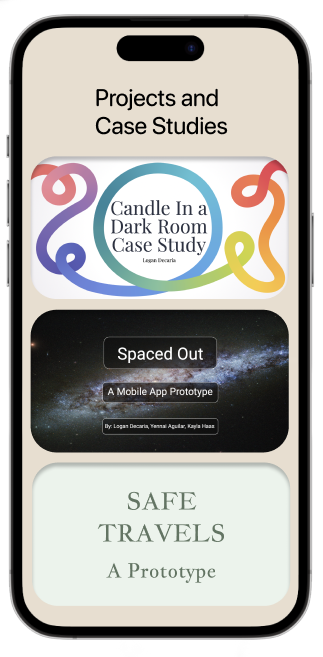
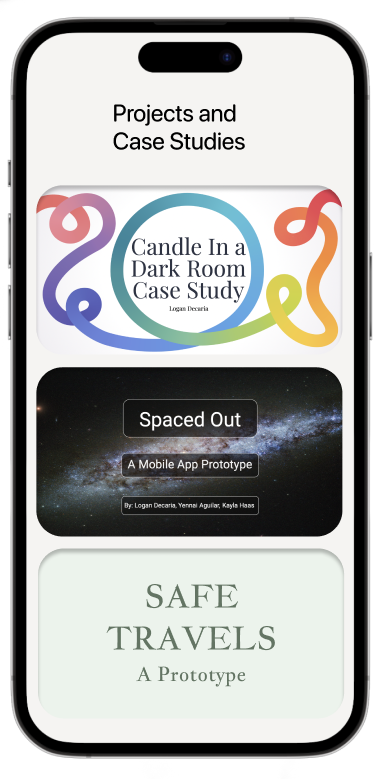
Layout changes

diff --git a/index.html b/index.html
@@ -45,7 +45,9 @@
       </nav>   
         <div class="mainContent"> 
         <div class="smallp">
-            Hi there, i'm Logan! I am a UX/UI Researcher
+          <div  >
+      <img id="personalPhoto" src="homepageimages/personalphoto.png">
+    </div>  Hi there, i'm Logan! I am a UX/UI Researcher
 and designer with a knack for prototyping and
 styling.
        <div class="largep">
@@ -53,7 +55,8 @@ styling.
           </div>
         
     </div>
-      <div class="iphonecase">
+    
+    <div class="iphonecase">
         <img src="homepageimages/iPhone14OnLanding/finishediPhone.png">
           </div>  
         </div>

diff --git a/style.css b/style.css
@@ -1,5 +1,5 @@
 .body{
-    background-image: linear-gradient( to left, #fcfaf2, #8b8982);
+    background-image: linear-gradient( to left, #8b8982, #fffffd);
     min-height: 100vh;
     display: flex;
     flex-direction: column;
@@ -38,6 +38,7 @@
    justify-content: flex-end;
    margin-right: 10%;
    float: right;
+   filter: drop-shadow(0px 4px 4px rgba(0, 0, 0, 0.25));
 }
 
 
@@ -55,4 +56,12 @@
 .linkStyle{
     color: #70AFB9;
     text-decoration: underline;
+}
+
+#personalPhoto {
+    margin-top: 25px;
+    margin-bottom: 25px;
+    display: flex;
+    flex-direction: column;
+    justify-content: start;
 }
